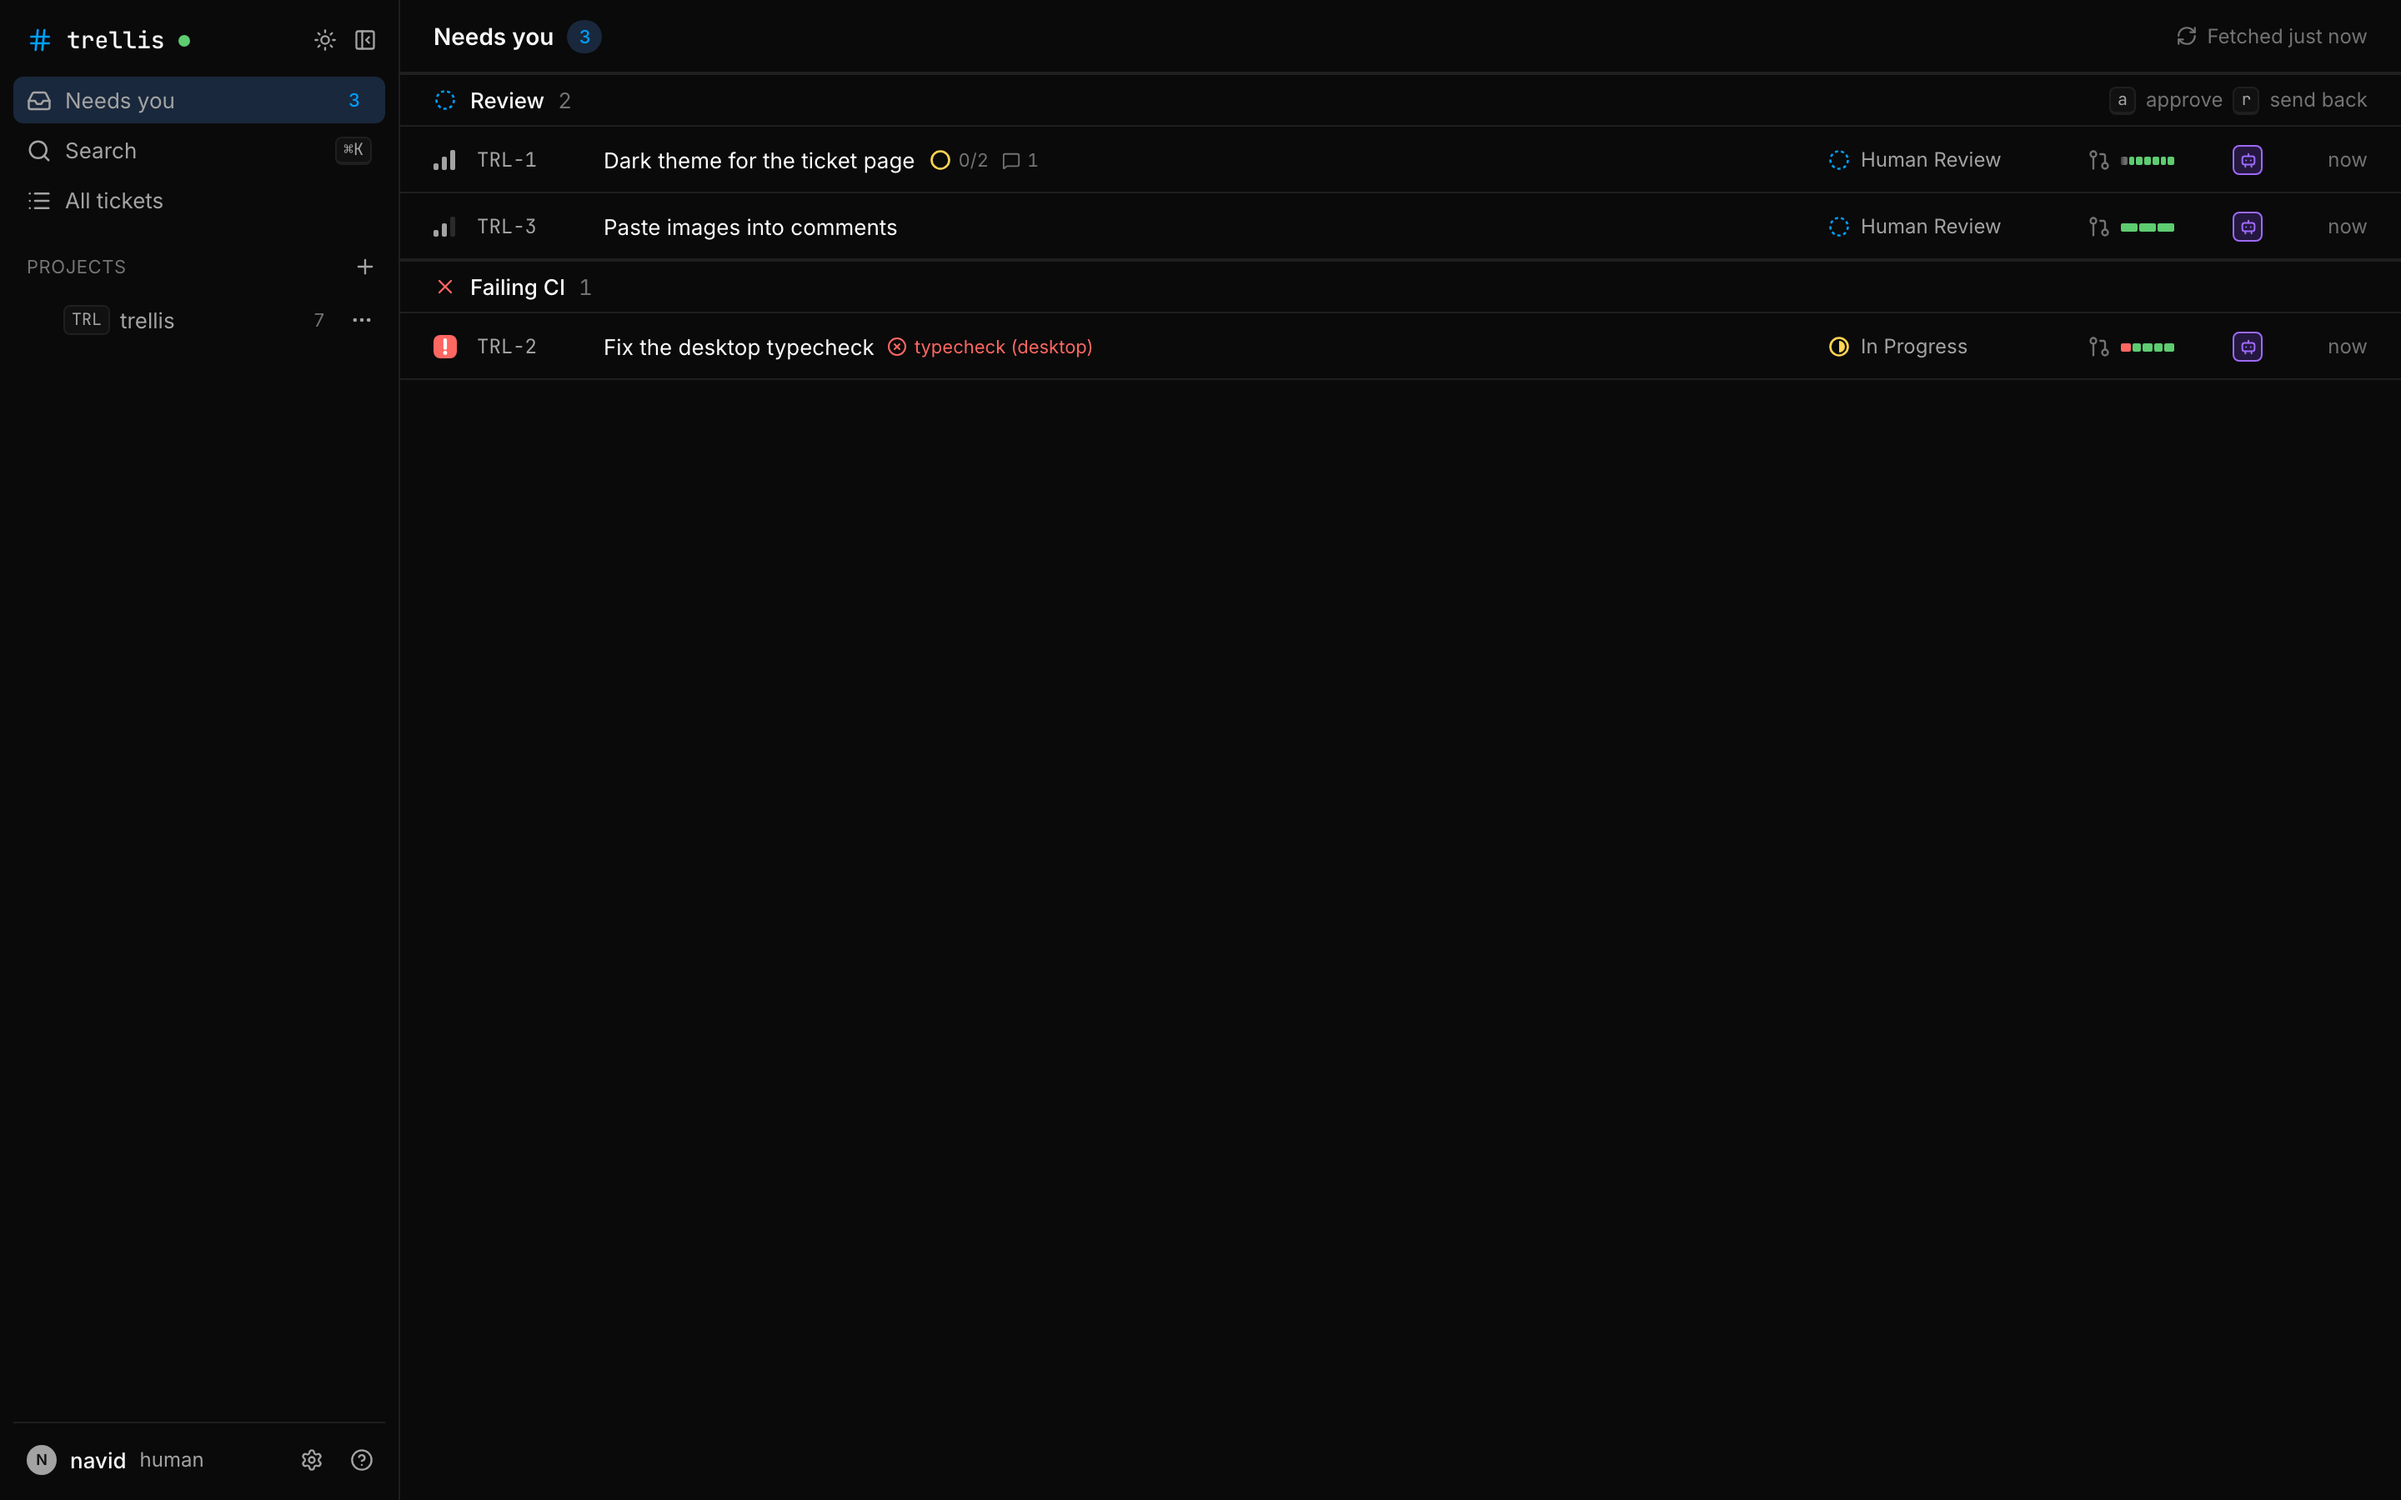
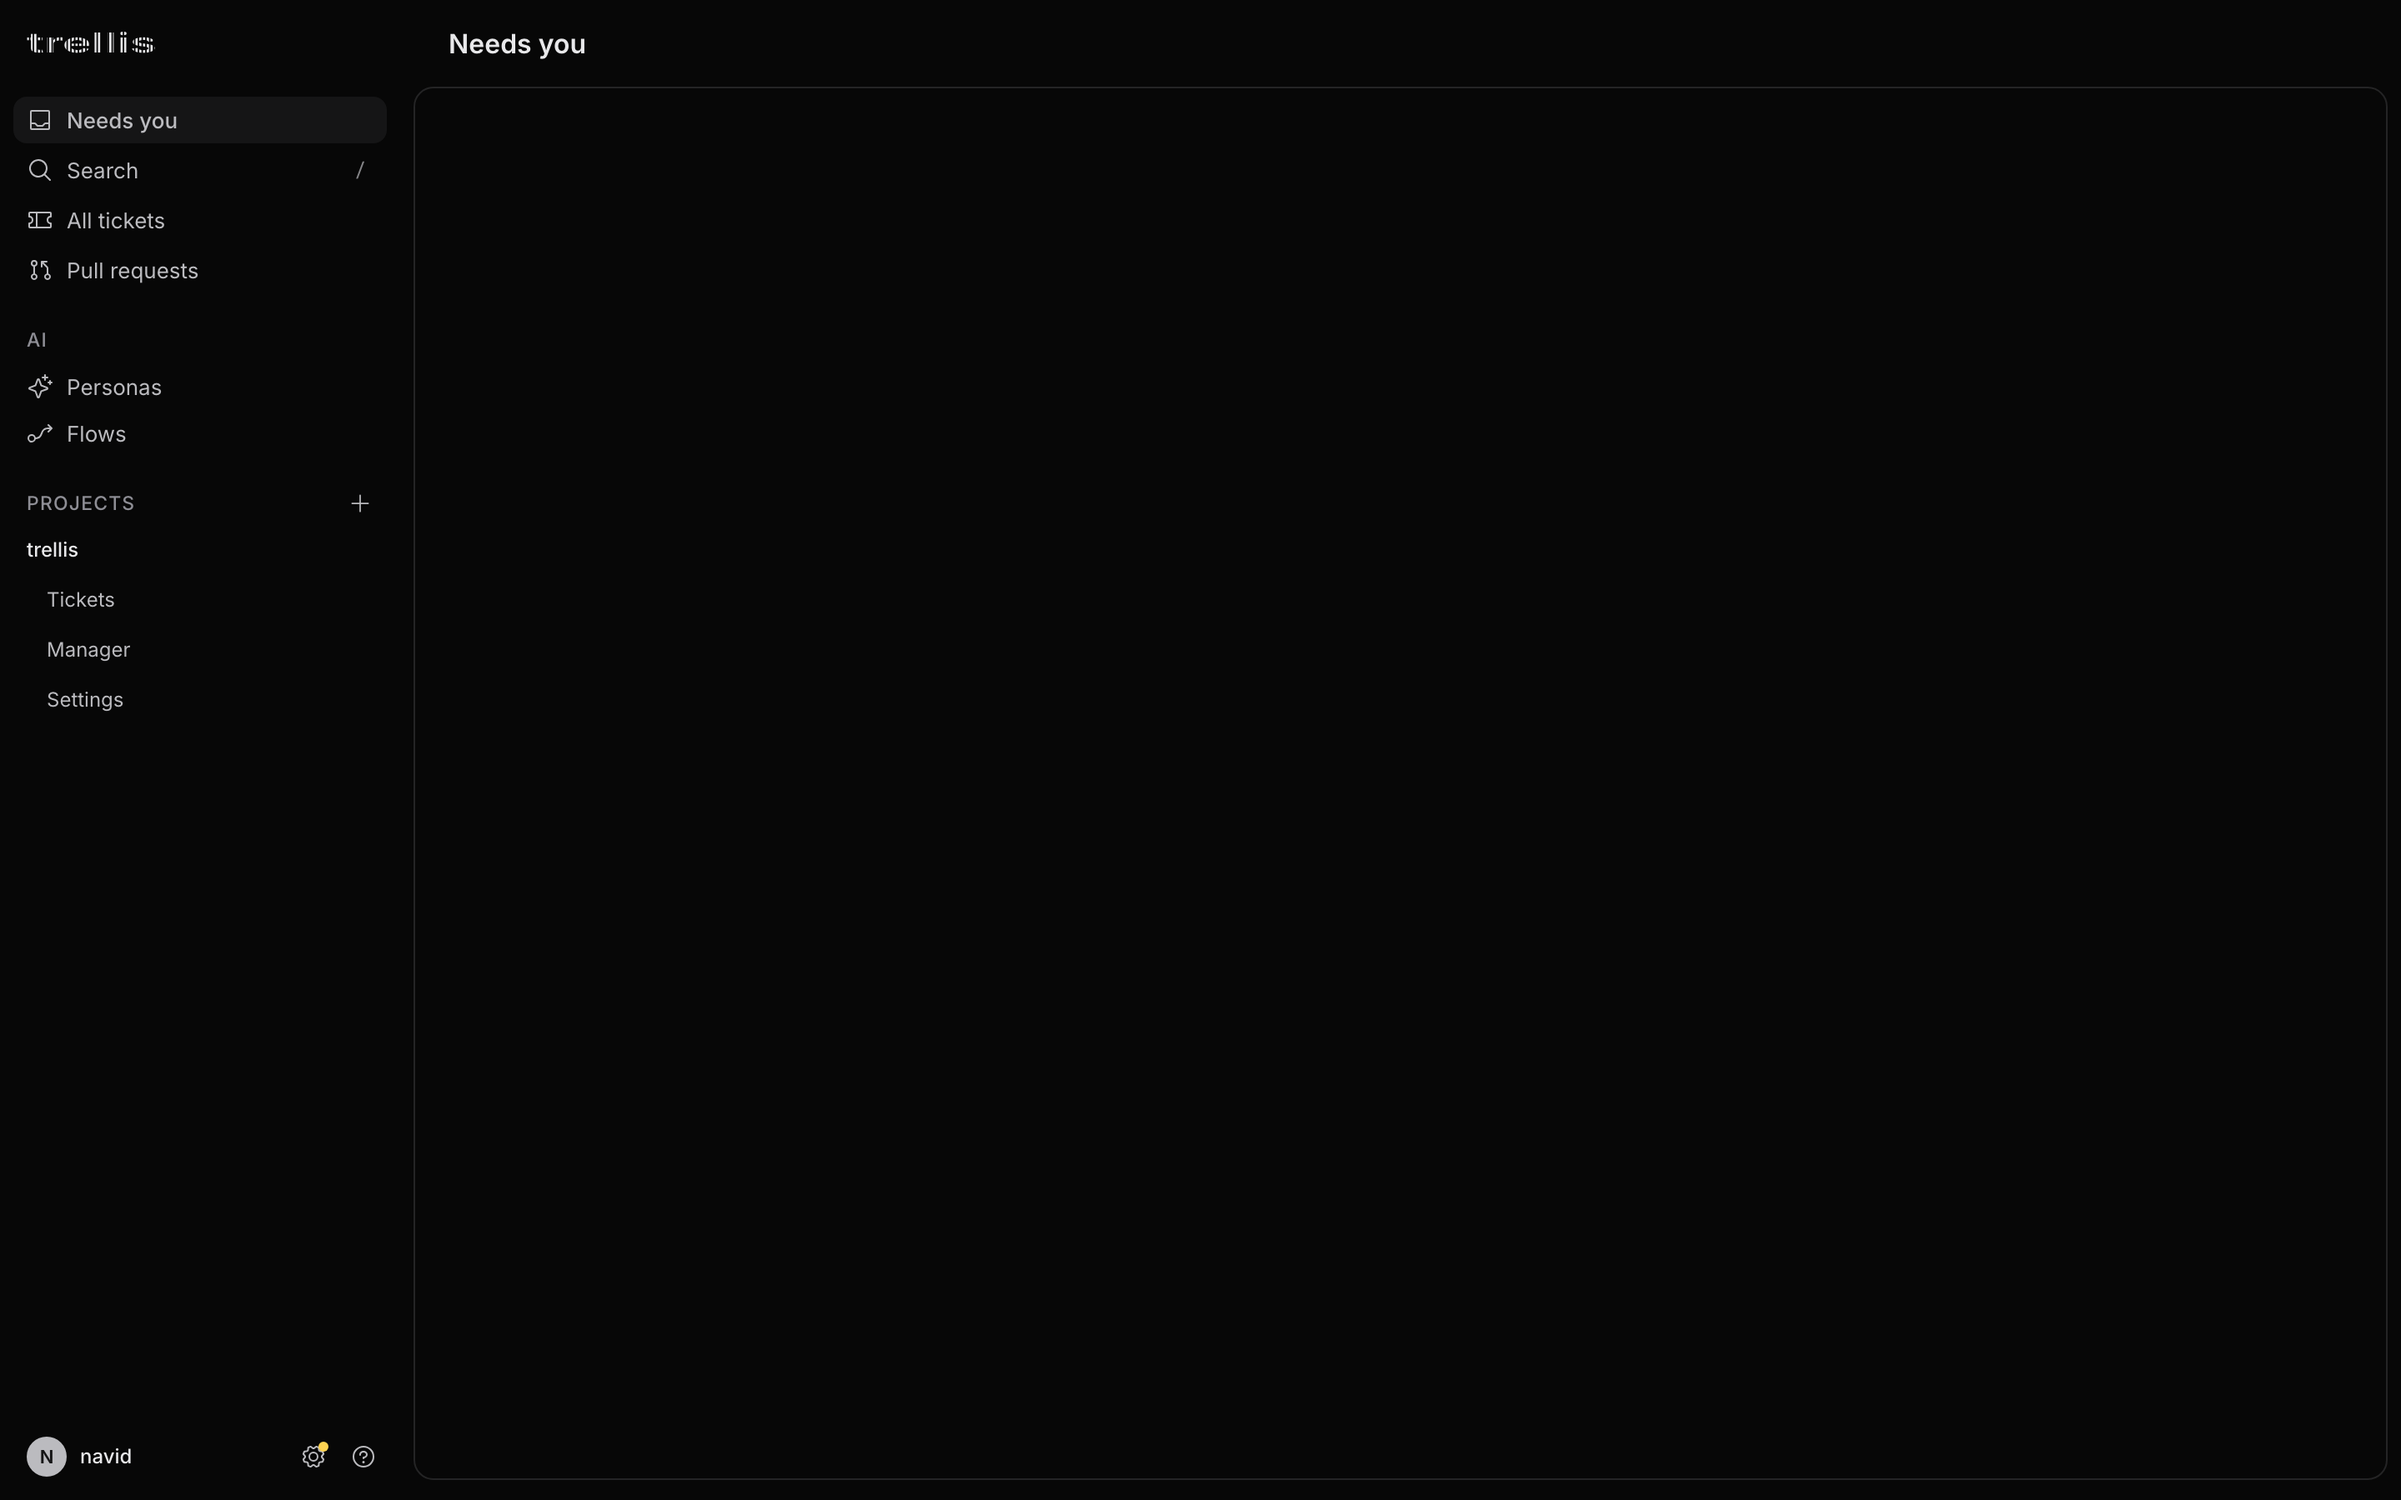
Show the empty Needs you page in the README image
Replace docs/images/needs-you.png with a screenshot of the empty page and
update its alt text. Change the UnreachableServer comment, which named the
inbox.

diff --git a/apps/mobile/src/components/UnreachableServer/UnreachableServer.tsx b/apps/mobile/src/components/UnreachableServer/UnreachableServer.tsx
@@ -18,8 +18,8 @@ const styles = StyleSheet.create({
 	actions: { alignSelf: "stretch", gap: tokens.space[2], marginTop: tokens.space[3] },
 });
 
-// The whole tab when the server does not answer and the cache holds no
-// inbox. Retry asks the server again; Change server opens the setup screen.
+// The whole screen when the server does not answer and the cache holds no
+// data. Retry asks the server again; Change server opens the setup screen.
 export function UnreachableServer({ host, onRetry, onChangeServer }: UnreachableServerProps) {
 	const palette = usePalette();
 	return (
